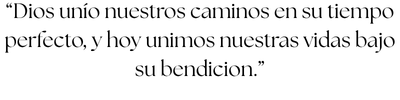
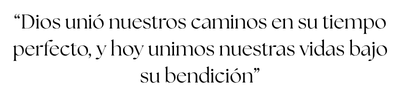
Add files via upload

Changed region(s): [[0.0, 0.03, 0.99, 0.63], [0.33, 0.6, 0.66, 0.84], [0.9, 0.6, 0.93, 0.63]]

diff --git a/index.html b/index.html
@@ -68,13 +68,49 @@
                             </div>
                         </div>
                     </div>
+                    <img
+                        src="assets/images/photo-3.jpeg"
+                        alt="photo-3"
+                        class="photo-3">
+
+                    <img
+                        src="assets/images/text-4.png"
+                        alt="texto-4"
+                        class="text-4">
+
+                    <img
+                        src="assets/images/text-5.png"
+                        alt="texto-5"
+                        class="text-5">
+
+                    <img
+                        src="assets/images/text-6.png"
+                        alt="texto-5"
+                        class="text-6">
+
+                    <img
+                        src="assets/images/photo-4.jpeg"
+                        alt="photo-4"
+                        class="photo-4">
+
+                    <p class="church">⛪</p>
+
+                    <img
+                        src="assets/images/text-7.png"
+                        alt="texto-7"
+                        class="text-7">
+
+                    <img
+                        src="assets/images/text-8.png"
+                        alt="texto-8"
+                        class="text-8">
+
+                    <img
+                        src="assets/images/text-9.png"
+                        alt="texto-9"
+                        class="text-9">
+
                     <div class="location">
-                        <h2 class="section-title">
-                            Ceremonia Religiosa
-                        </h2>
-                        <p class="location-name">
-                            Parroquia San Pedro Apostol
-                        </p>
                         <a
                             href="https://maps.app.goo.gl/y1yqLHcJ1eNLraXaA"
                             target="_blank"
@@ -84,6 +120,10 @@
                             Ver ubicación
                         </a>
                     </div>
+                    <img
+                        src="assets/images/photo-5.jpeg"
+                        alt="photo-5"
+                        class="photo-5">
                     <div class="confirmation">
                         <h2>
                             Confirmación de asistencia

diff --git a/js/script.js b/js/script.js
@@ -19,6 +19,17 @@ const secondText = document.querySelector(".second-text");
 const text1 = document.querySelector(".text-1");
 const text2 = document.querySelector(".text-2");
 const text3 = document.querySelector(".text-3");
+const photo3 = document.querySelector(".photo-3");
+const text4 = document.querySelector(".text-4");
+const text5 = document.querySelector(".text-5");
+const text6 = document.querySelector(".text-6");
+const photo4 = document.querySelector(".photo-4");
+const church = document.querySelector(".church");
+const text7 = document.querySelector(".text-7");
+const text8 = document.querySelector(".text-8");
+const text9 = document.querySelector(".text-9");
+const photo5 = document.querySelector(".photo-5");
+
 
 if(guestId){
 
@@ -72,7 +83,7 @@ updateCountdown();
 setInterval(updateCountdown,1000);
 
 seal.addEventListener("click", () => {
-    // music.play();
+    music.play();
     closed.style.display = "none";
     seal.style.display = "none";
     initials.style.display = "none";
@@ -83,13 +94,23 @@ seal.addEventListener("click", () => {
         letter.classList.add("fullscreen");
         countdown.style.display = "block";
         churchLocation.style.display = "block";
+        church.style.display = "block";
         countdownClock.style.display = "block";
         confirmation.style.display = "block";
         text1.style.display = "block";
         text2.style.display = "block";
         text3.style.display = "block";
+        photo3.style.display = "block";
+        text4.style.display = "block";
+        text5.style.display = "block";
+        text6.style.display = "block";
+        photo4.style.display = "block";
+        text7.style.display = "block";
+        text8.style.display = "block";
+        text9.style.display = "block";
+        photo5.style.display = "block";
 
-    }, 3000);
+    }, 1000);
 
 });
 

diff --git a/css/style.css b/css/style.css
@@ -20,6 +20,10 @@ body {
     min-height: 100vh;
 }
 
+.church{
+    display:none;
+}
+
 .confirmation{
     margin-top:50px;
     text-align:center;
@@ -159,7 +163,6 @@ body {
 }
 
 .location{
-    margin-top:50px;
     text-align:center;
     display:none;
 }
@@ -191,6 +194,24 @@ body {
 .photo-2{
     width:100%;
     display:block;
+}
+
+.photo-3{
+    width:100%;
+    display:none;
+    margin-top:100px;
+}
+
+.photo-4{
+    width:100%;
+    display:none;
+    margin-top:100px;
+}
+
+.photo-5{
+    width:100%;
+    display:none;
+    margin-top:100px;
 }
 
 .open{
@@ -296,6 +317,48 @@ body {
 }
 
 .text-3{
+    width:100%;
+    display:block;
+    margin-top:0;
+    display:none;
+}
+
+.text-4{
+    width:100%;
+    display:block;
+    margin-top:0;
+    display:none;
+}
+
+.text-5{
+    width:100%;
+    display:block;
+    margin-top:0;
+    display:none;
+}
+
+.text-6{
+    width:100%;
+    display:block;
+    margin-top:0;
+    display:none;
+}
+
+.text-7{
+    width:100%;
+    display:block;
+    margin-top:0;
+    display:none;
+}
+
+.text-8{
+    width:100%;
+    display:block;
+    margin-top:0;
+    display:none;
+}
+
+.text-9{
     width:100%;
     display:block;
     margin-top:0;
